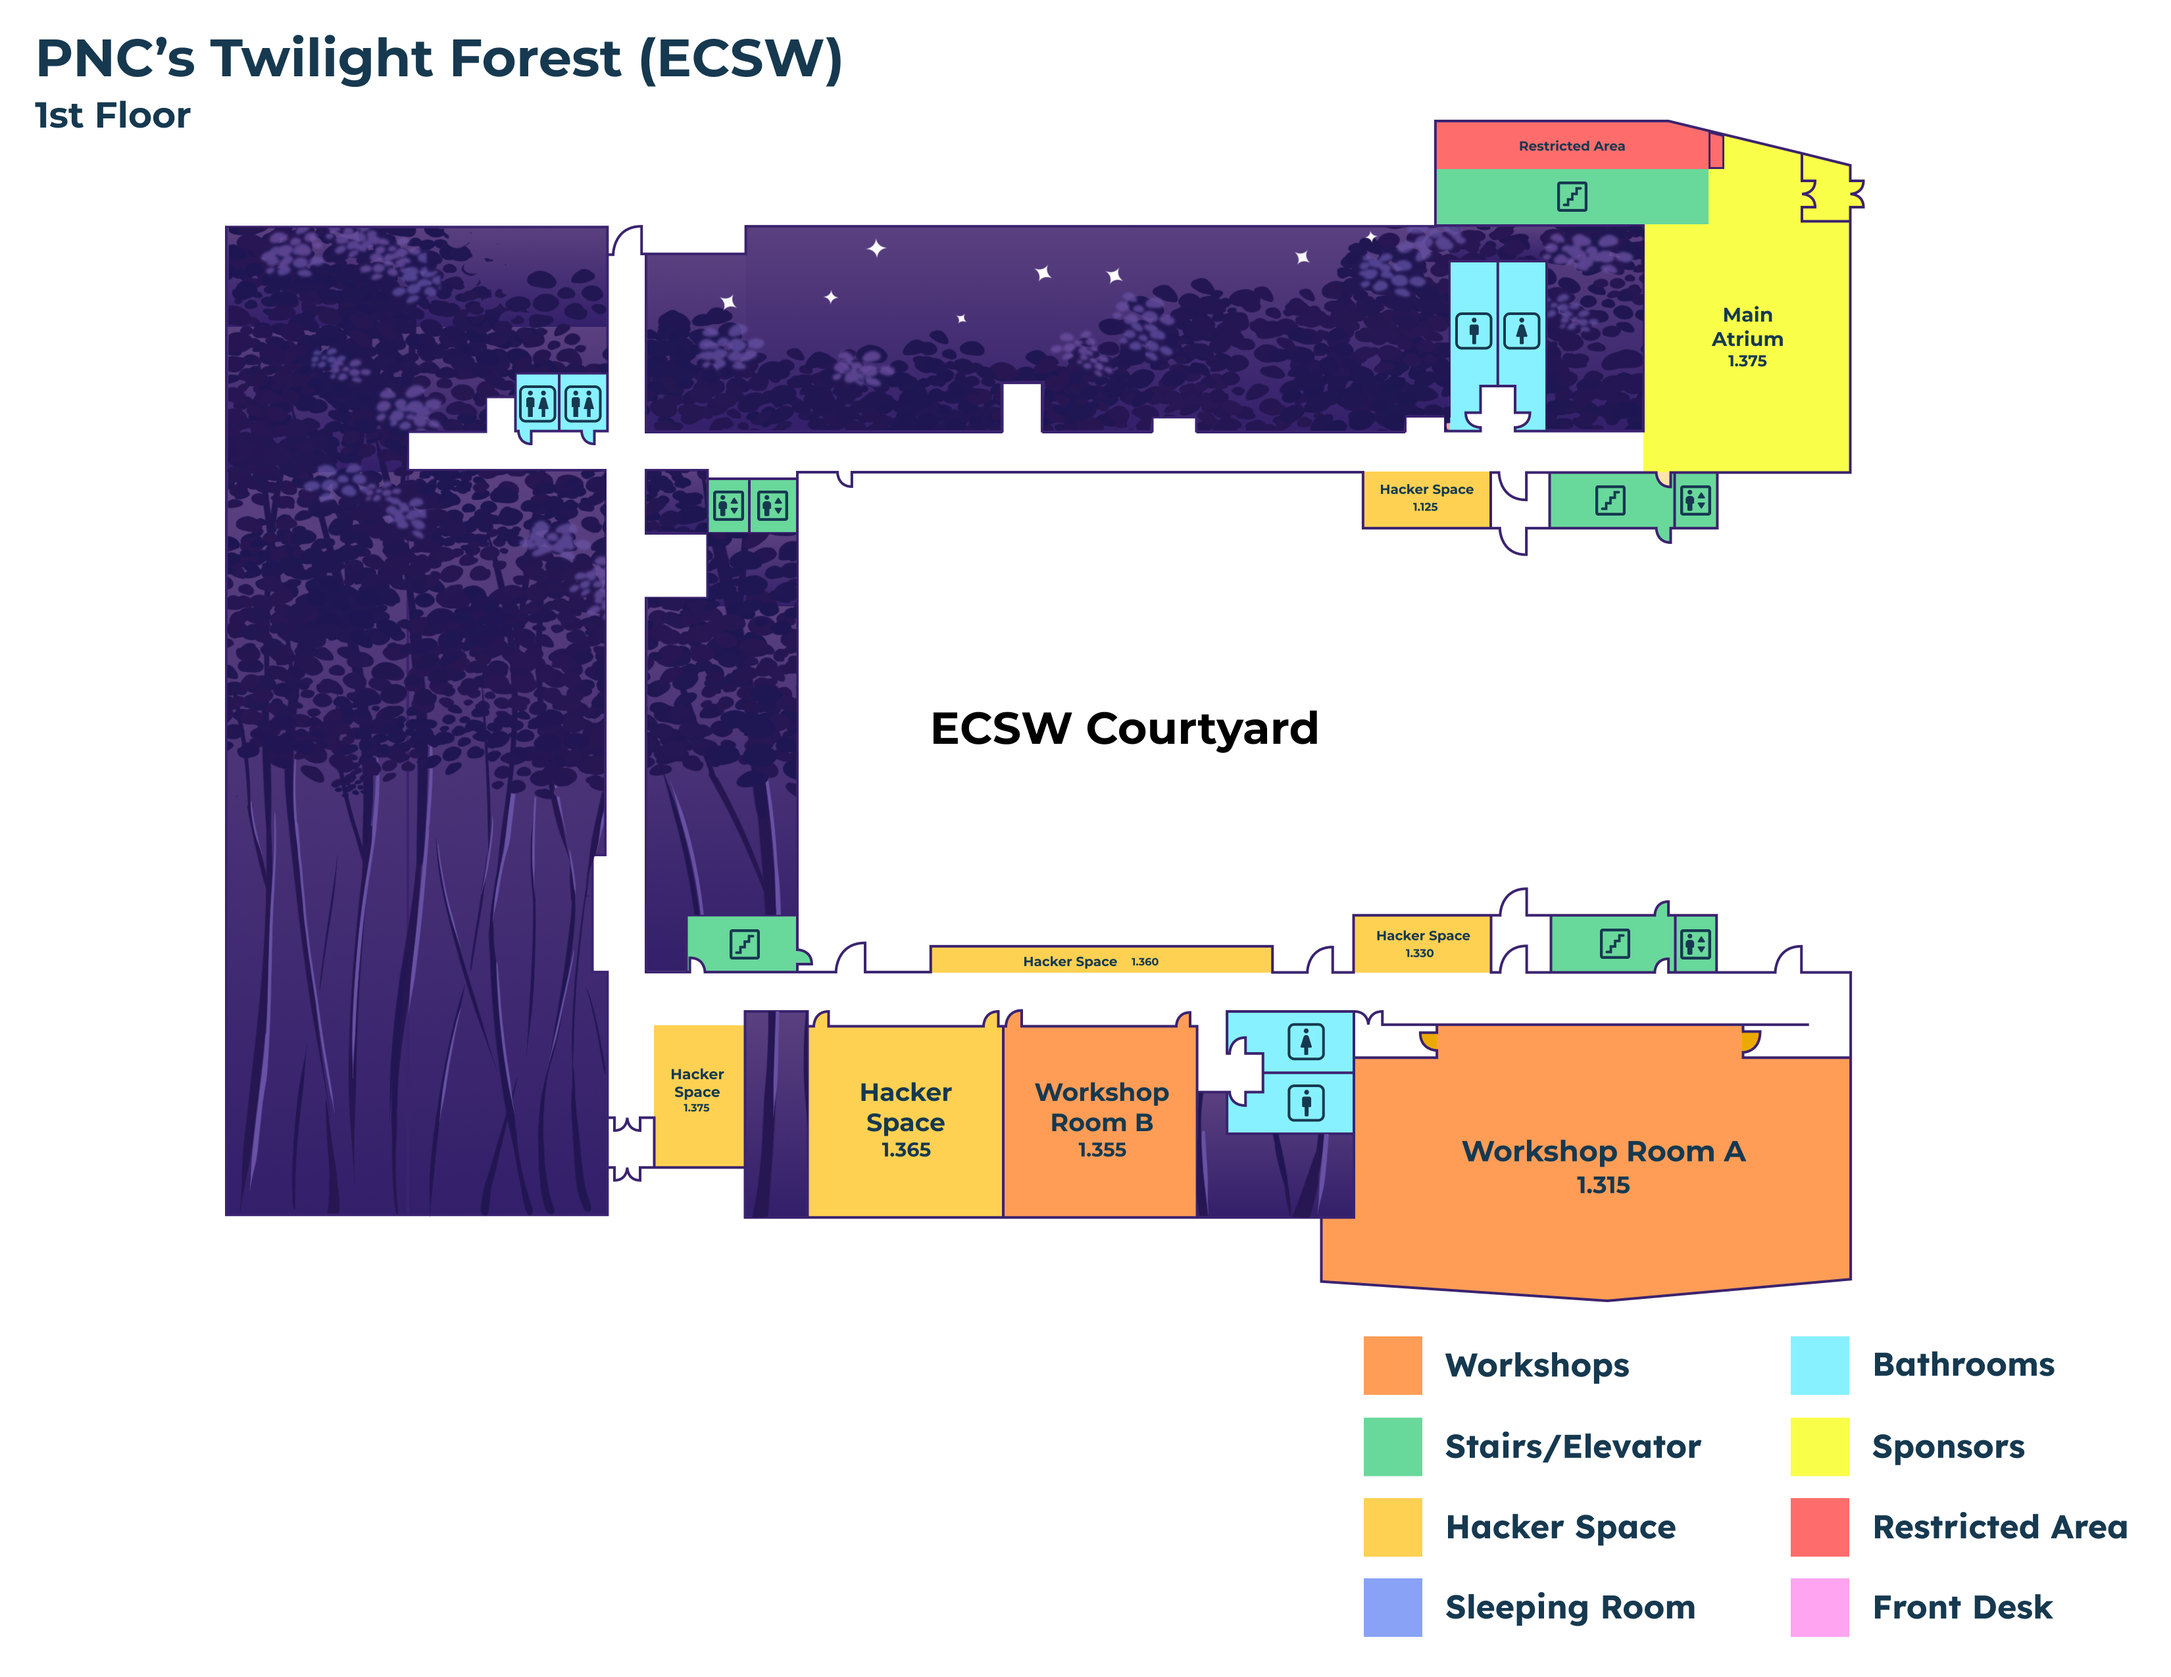
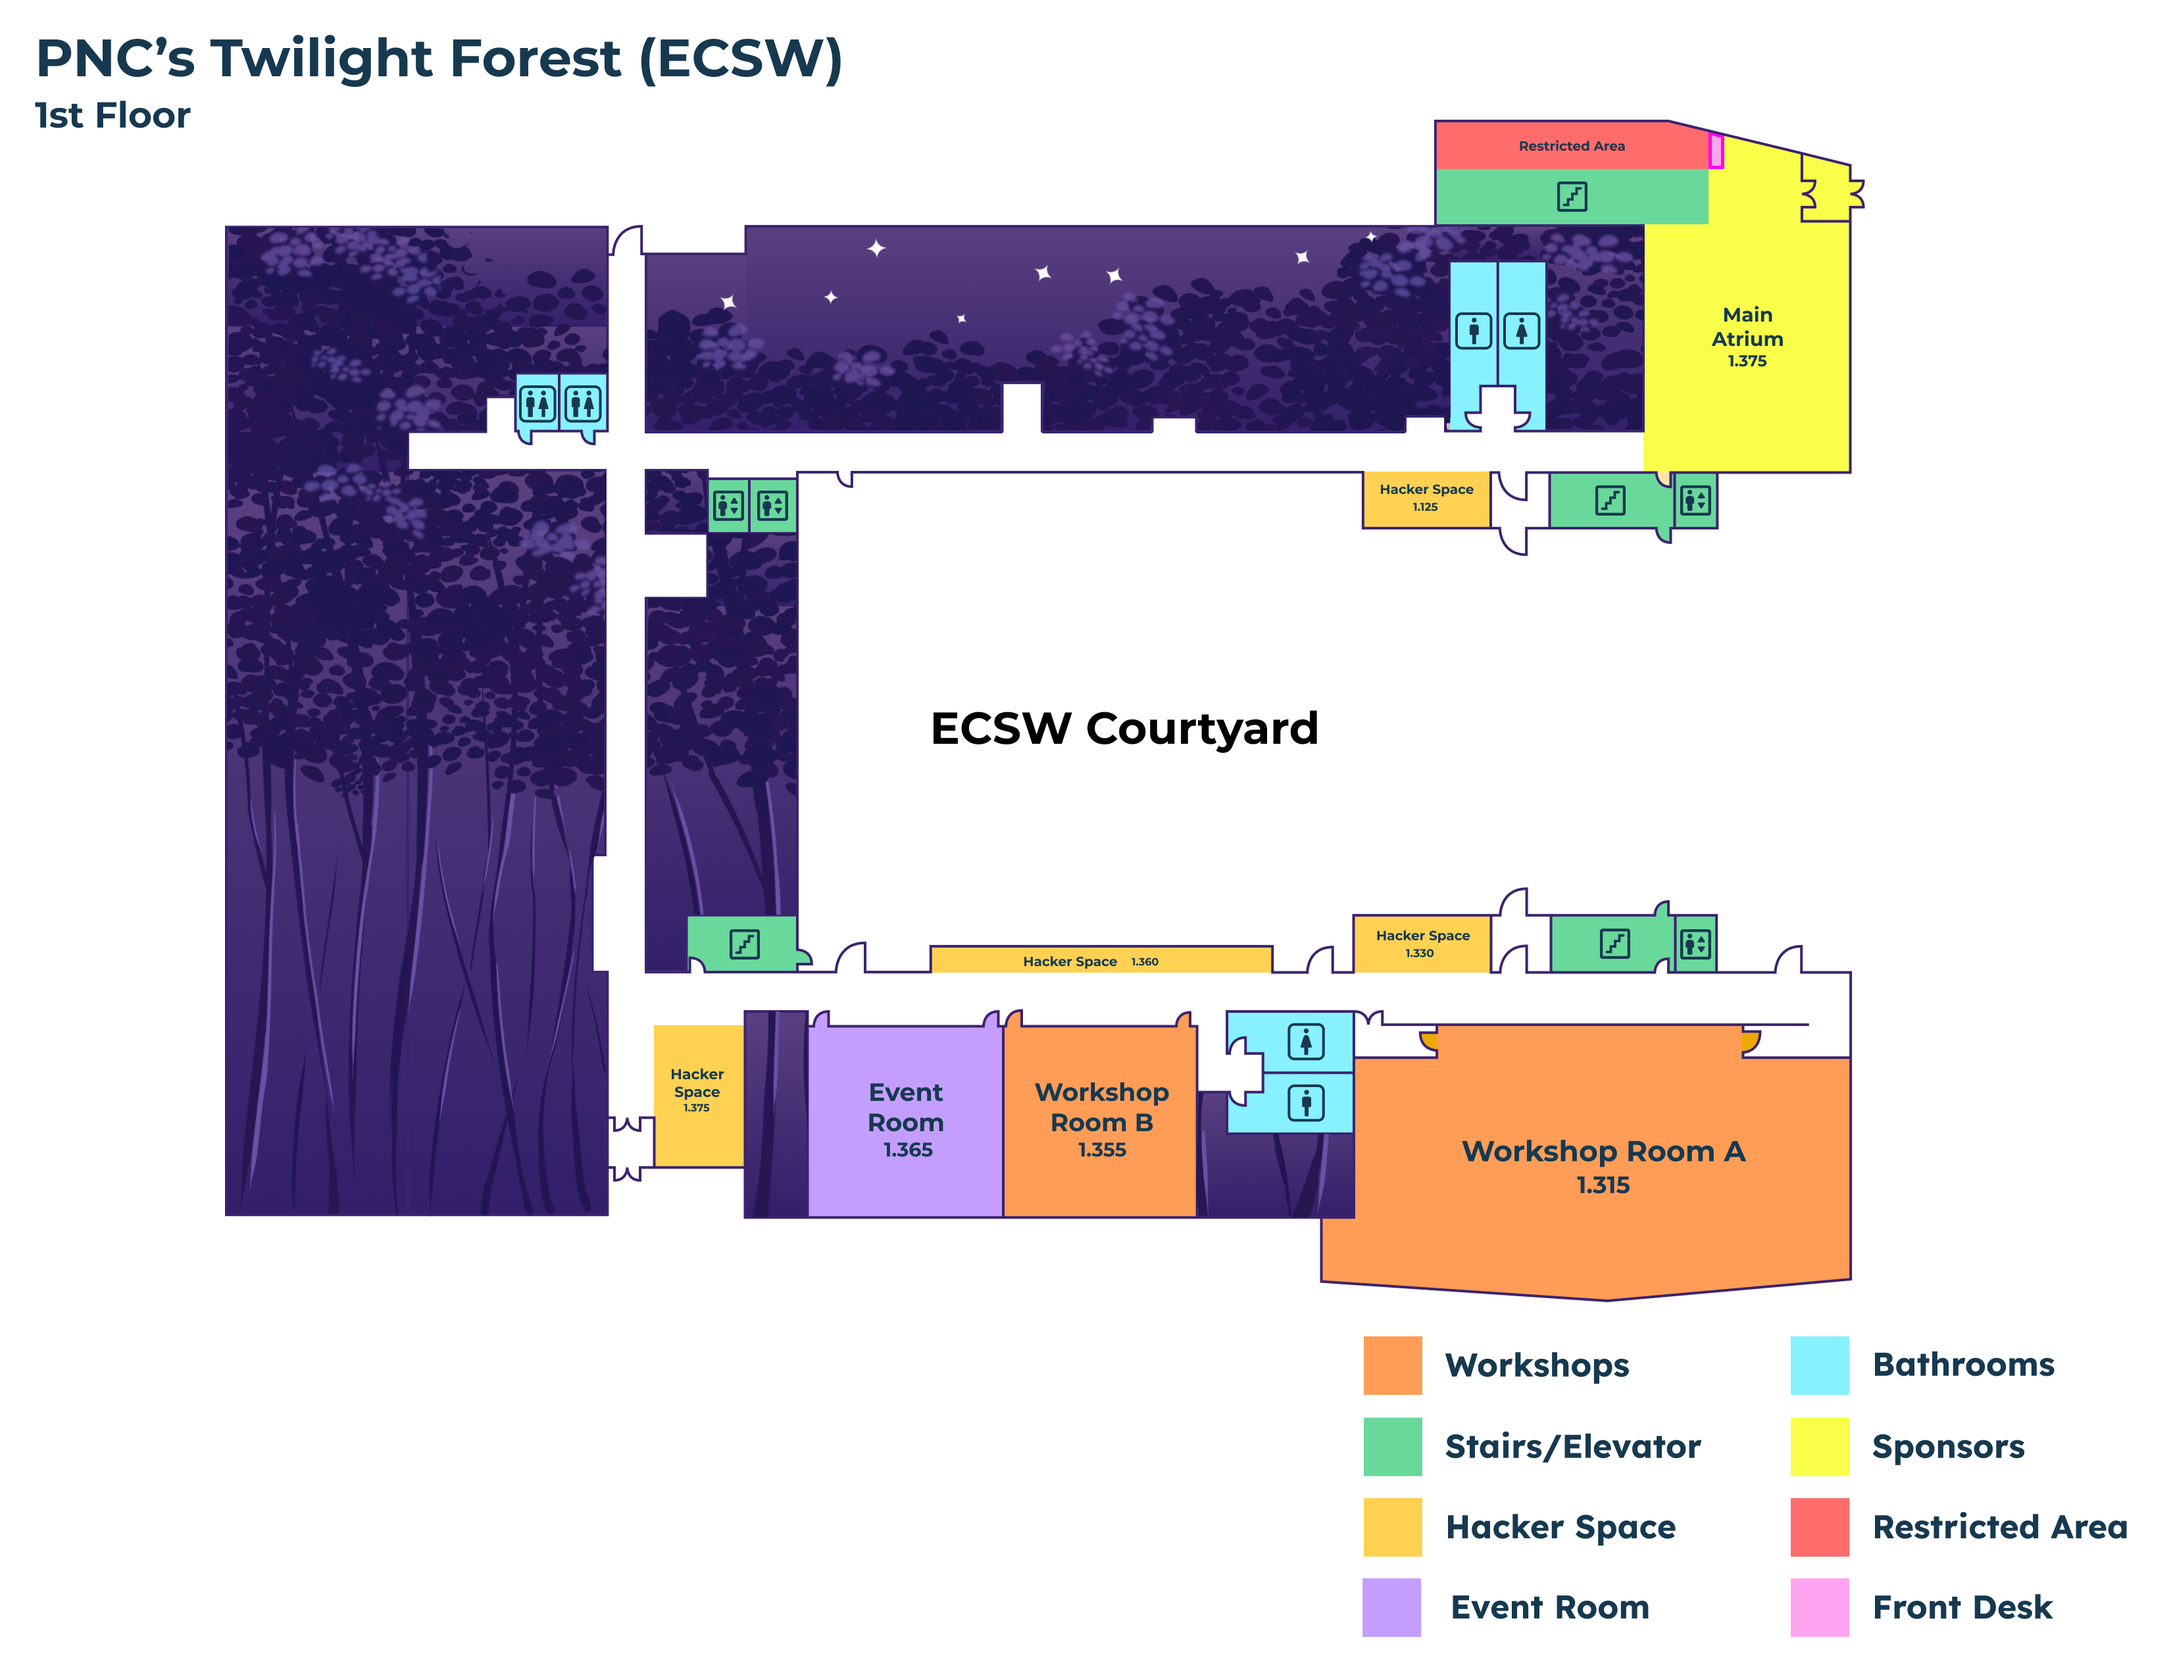
added maps

Changed region(s): [[0.3745, 0.5886, 0.4682, 0.7435], [0.6242, 0.9294, 0.7803, 0.9914]]

diff --git a/dayof/venue-parking.md b/dayof/venue-parking.md
@@ -49,31 +49,18 @@ Non-UTD students will need a parking permit to park at UTD during HackUTD. Pleas
 
 ## Venue Interior Maps
 
-### ECSW (Erik Jonsson School - West)
 
-TBD
+![ECSW Interior Map](../static/img/hackerpacks/ecsw-1.png)
 
-#### 1st floor — Info desk (top corner)
+![ECSW 2nd Floor Map](../static/img/hackerpacks/ecsw-2.png)
 
-TBD
+![ECSW 3rd Floor Map](../static/img/hackerpacks/ecsw-3.png)
 
-#### 2nd floor
+![ECSW 4th Floor Map](../static/img/hackerpacks/ecsw-4.png)
 
-TBD
-
-#### 3rd floor
-
-TBD
-
-#### 4th floor
-
-TBD
-
-### ECSS (Erik Jonsson School - South)
-
-#### 1st floor
-
-TBD
+---
+---
+![ECSS 1st Floor Map](../static/img/hackerpacks/ecss-1.png)
 
 ---
 
